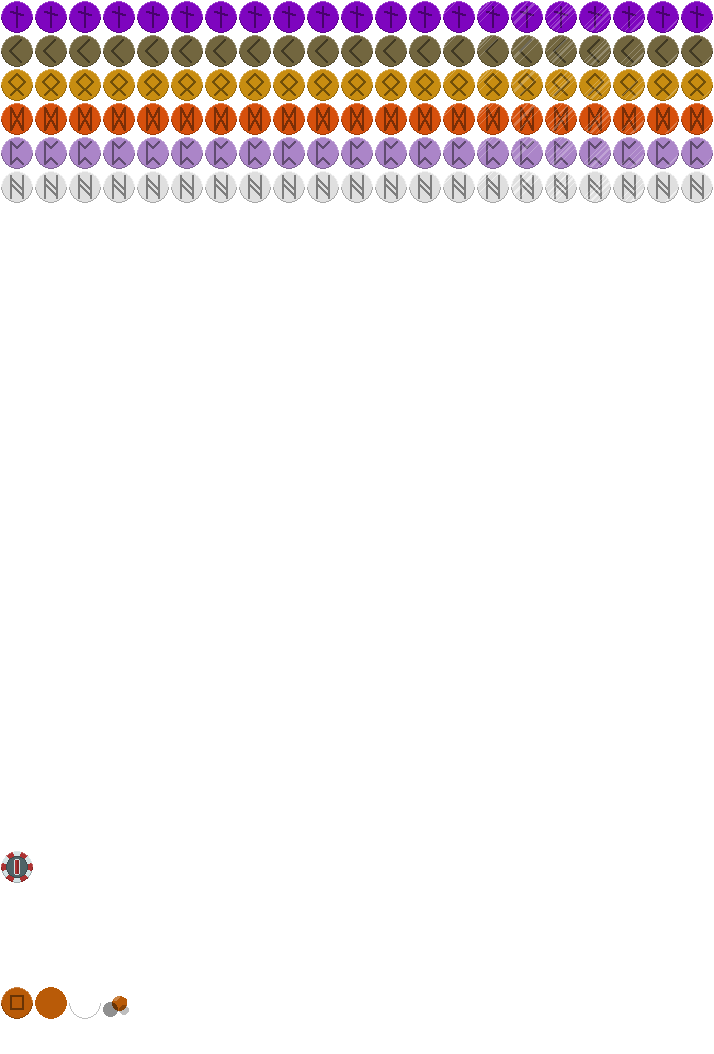
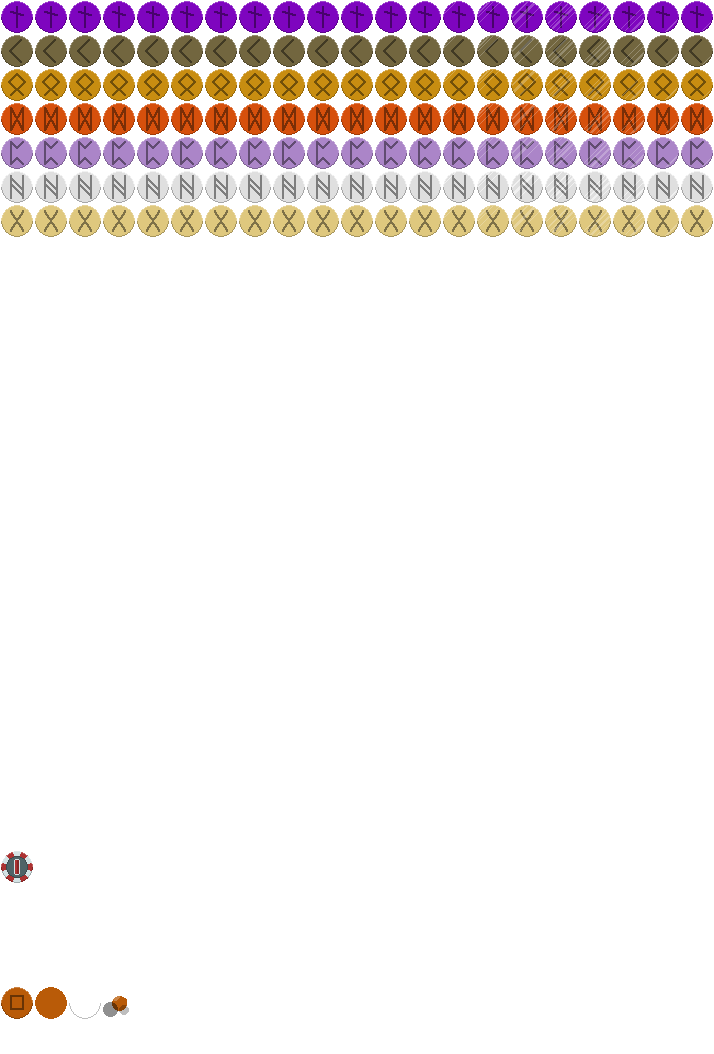
Add Ascetic blind

Changed region(s): [[0.0, 0.1822, 1.0, 0.2429]]

diff --git a/web/addjokers.js b/web/addjokers.js
@@ -685,6 +685,14 @@ let blinds = [
     image_url: "img/bl/lost.png",
     rarity: "Boss Blind"
   },
+  {
+    name: "The Ascetic",
+    text: [
+      "No reward money",
+    ],
+    image_url: "img/bl/ascetic.png",
+    rarity: "Boss Blind"
+  },
   // {
   //   name: "Violet Vessel",
   //   text: [
